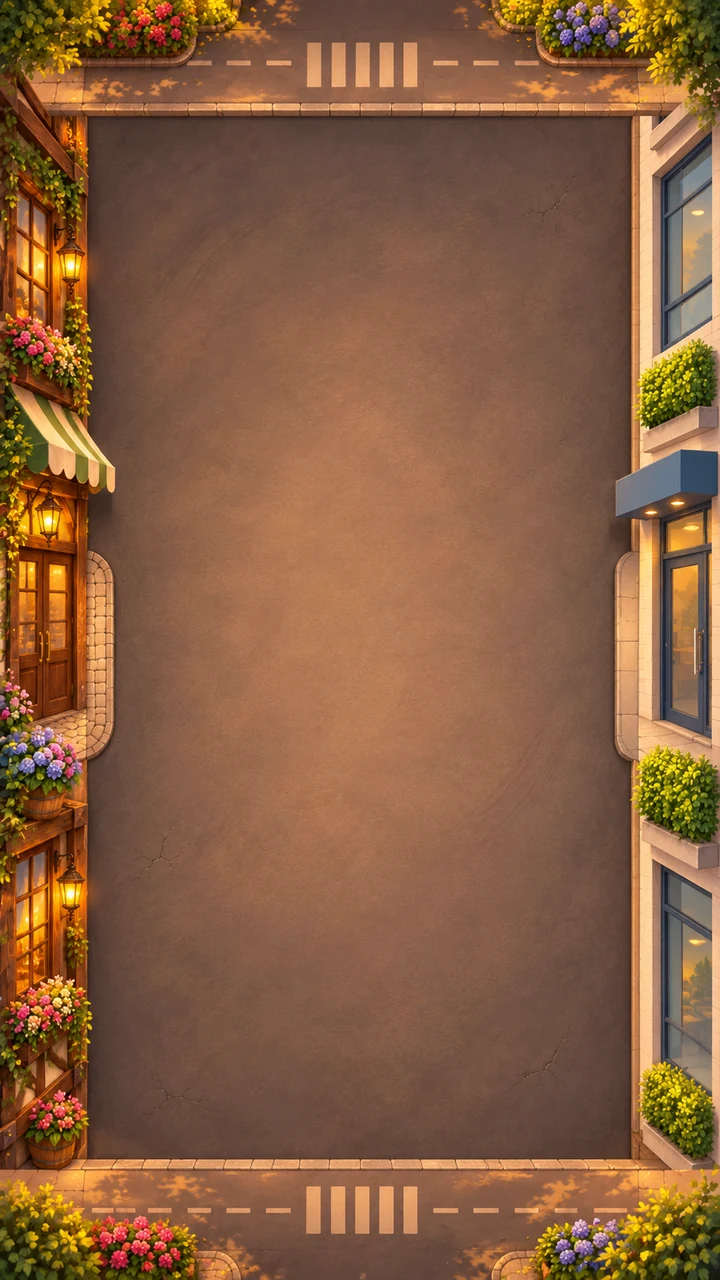
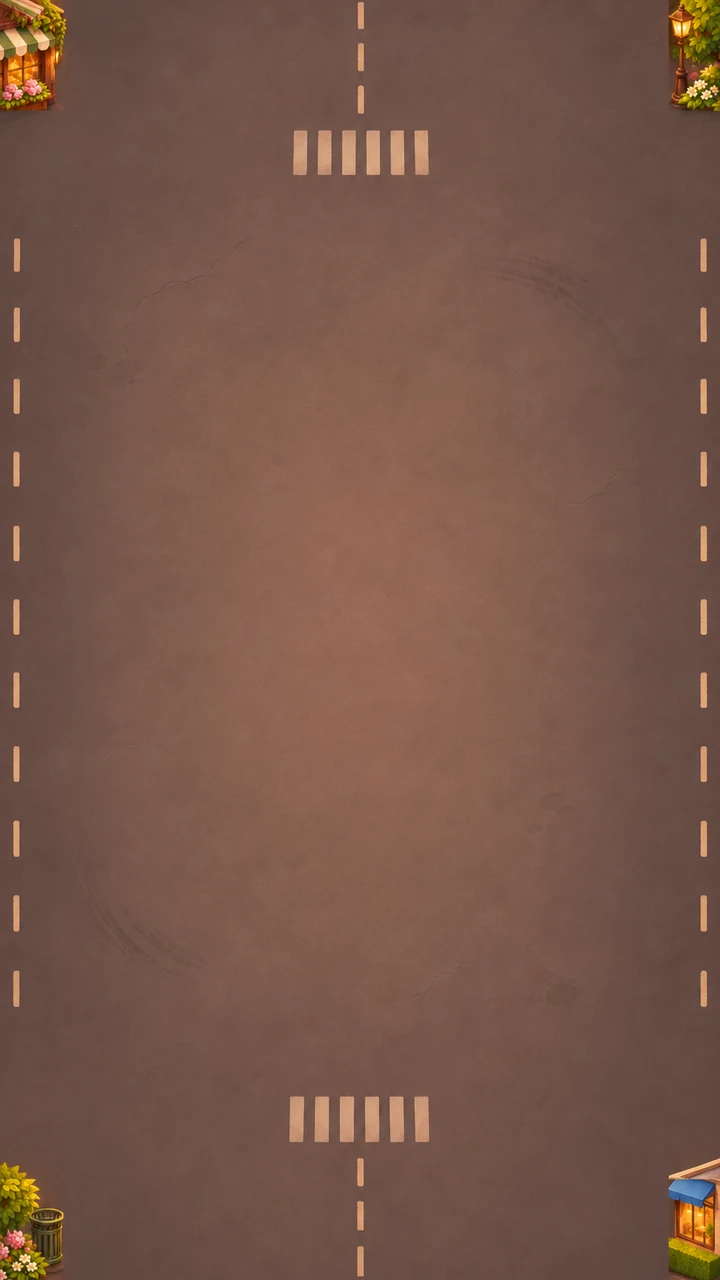
Car Park: open street on all four sides, so no car drives into a building
Found on a real phone: the first backdrop had a building down each side, so a
sideways car drove into the cafe or the neighbour's wall. New backdrop
(car-park-backdrop-v2) has a street on every side and the cafe and the neighbour
only as small corner pieces. The lot is now 86 % of the stage width, the lot box
and its clip are gone, and vehicles drive off the stage edge they face. Also: a
puff behind a departing car, the tow-truck picture on the Tow button, the angry
neighbour face on the third honk, and e2e P12 (a departure stays on its row or
column). tools/e2e/harness.mjs OUT path fixed (no more stray Knife%20Craft folder).
Docs: HANDOFF and the Codex prompts (batch A2).

diff --git a/src/components/kc/inventory/CarParkGame.tsx b/src/components/kc/inventory/CarParkGame.tsx
@@ -119,7 +119,7 @@ export function CarParkGame({
   const [leaving, setLeaving] = useState<CarParkVehicle[]>([]);
   const [honkId, setHonkId] = useState<string | null>(null);
   const stage = useRef<HTMLElement | null>(null);
-  /** The size of one square cell, in pixels: the biggest the lot can be inside the stage (78 % of its width, the rest is the two buildings). */
+  /** The size of one square cell, fitted into 86 % of the stage width to match the open-road play area. */
   const [cell, setCell] = useState(0);
   const idleTimer = useRef<number | null>(null);
   const sentResult = useRef(false);
@@ -135,7 +135,7 @@ export function CarParkGame({
     const el = stage.current;
     if (!el) return;
     const measure = () => {
-      const w = el.clientWidth * 0.78;
+      const w = el.clientWidth * 0.86;
       const h = el.clientHeight;
       setCell(Math.max(0, Math.floor(Math.min(w / initial.cols, h / initial.rows))));
     };
@@ -258,10 +258,12 @@ export function CarParkGame({
         </button>
       </header>
 
-      <div className="relative z-10 mx-auto mt-2 flex w-[78%] items-center justify-between rounded-2xl border border-[#e4c683] bg-[#fff5df]/95 px-2 py-1 shadow-lg">
+      <div className="relative z-10 mx-auto mt-2 flex w-[86%] items-center justify-between rounded-2xl border border-[#e4c683] bg-[#fff5df]/95 px-2 py-1 shadow-lg">
         <div className="flex items-center gap-2">
           <img
-            src={art(`neighbour-${honks === 0 ? "happy" : honks === 1 ? "worried" : "annoyed"}`)}
+            src={art(
+              `neighbour-${honks === 0 ? "happy" : honks === 1 ? "worried" : honks >= CAR_PARK_STRIKES ? "angry" : "annoyed"}`,
+            )}
             alt="Neighbour"
             className="h-10 w-10 rounded-full"
           />
@@ -277,12 +279,12 @@ export function CarParkGame({
 
       <section
         ref={stage}
-        className="relative z-10 min-h-0 flex-1"
+        className="relative z-10 min-h-0 flex-1 overflow-hidden"
         aria-label="Shared car park puzzle"
       >
         {cell > 0 ? (
           <div
-            className="absolute left-1/2 top-1/2 -translate-x-1/2 -translate-y-1/2 overflow-hidden rounded-lg border-2 border-[#d7b674]/80 bg-[#5d554a]/55 shadow-[0_12px_35px_rgba(0,0,0,.45)]"
+            className="absolute left-1/2 top-1/2 -translate-x-1/2 -translate-y-1/2"
             style={{ width: cell * lot.cols, height: cell * lot.rows }}
           >
             {lot.vehicles.map((v) => {
@@ -318,6 +320,9 @@ export function CarParkGame({
             {leaving.map((v) => (
               <div
                 key={`leaving-${v.id}`}
+                data-testid="carpark-departing"
+                data-axis={v.axis}
+                data-direction={v.dir}
                 aria-hidden="true"
                 className="pointer-events-none absolute z-0"
                 style={{
@@ -329,6 +334,29 @@ export function CarParkGame({
                 }}
               >
                 <Oriented v={v} cell={cell} />
+                <img
+                  src={art("puff")}
+                  alt=""
+                  draggable={false}
+                  className="pointer-events-none absolute"
+                  style={{
+                    left:
+                      v.axis === "h"
+                        ? v.dir > 0
+                          ? -cell * 0.3
+                          : v.length * cell - cell * 0.7
+                        : cell / 2 - cell * 0.35,
+                    top:
+                      v.axis === "v"
+                        ? v.dir > 0
+                          ? -cell * 0.3
+                          : v.length * cell - cell * 0.7
+                        : cell / 2 - cell * 0.35,
+                    width: cell * 0.7,
+                    height: cell * 0.7,
+                    animation: "carparkPuff .38s ease-out forwards",
+                  }}
+                />
               </div>
             ))}
             {hintId && phase === "playing" ? (
@@ -345,6 +373,7 @@ export function CarParkGame({
       <footer className="relative z-10 mx-3 mb-[max(12px,env(safe-area-inset-bottom))] rounded-2xl border border-[#dfbe7e] bg-[#fff2d7]/95 p-2 shadow-xl">
         <div className="flex items-center justify-between gap-2">
           <button
+            data-testid="carpark-tow"
             onClick={async () => {
               touchActivity();
               if (canTow) {
@@ -365,14 +394,16 @@ export function CarParkGame({
             }
             className={`min-h-12 rounded-xl border px-3 py-2 text-xs font-black shadow ${towMode ? "border-red-700 bg-red-700 text-white" : "border-[#b67d3c] bg-[#f4d49a]"}`}
           >
-            🚚{" "}
-            {towMode
-              ? "Choose a vehicle"
-              : canTow
-                ? `${freeTowUsed ? "Bonus tow" : "Tow"} · costs 1★`
-                : towAdAvailable && carParkTowAdAvailable(save)
-                  ? "Watch for extra tow"
-                  : "Tow used today"}
+            <span className="flex items-center gap-1.5">
+              <img src={art("tow-truck")} alt="" className="h-8 w-4 object-contain" />
+              {towMode
+                ? "Choose a vehicle"
+                : canTow
+                  ? `${freeTowUsed ? "Bonus tow" : "Tow"} · costs 1★`
+                  : towAdAvailable && carParkTowAdAvailable(save)
+                    ? "Watch for extra tow"
+                    : "Tow used today"}
+            </span>
           </button>
           <span className="rounded-xl border border-[#c49a61]/50 px-3 py-2 text-xs font-bold">
             {honks === 0 ? "✨ Clean run" : `${honks}/3 honks`}

diff --git a/src/styles.css b/src/styles.css
@@ -1613,6 +1613,17 @@ html.kc-reduced-motion .kc-clean-sheen {
   }
 }
 
+@keyframes carparkPuff {
+  0% {
+    opacity: 0.8;
+    transform: scale(0.45);
+  }
+  100% {
+    opacity: 0;
+    transform: scale(1.25);
+  }
+}
+
 @keyframes carparkBump {
   0%,
   100% {

diff --git a/scripts/make-car-park-assets.py b/scripts/make-car-park-assets.py
@@ -18,7 +18,8 @@ ROOT = Path(__file__).resolve().parent.parent
 SOURCE = ROOT / "Car Park Assets"
 OUTPUT = ROOT / "public" / "business" / "carpark"
 
-BACKDROP = "car-park-backdrop"
+BACKDROP_SOURCE = "car-park-backdrop-v2"
+BACKDROP_OUTPUT = "car-park-backdrop"
 VEHICLES: dict[str, tuple[int, int]] = {
     **{f"car-{color}": (160, 320) for color in ("red", "blue", "yellow", "green", "orange", "purple", "white", "grey")},
     **{f"van-{color}": (160, 480) for color in ("red", "blue", "yellow", "green", "orange", "purple", "white", "grey")},
@@ -84,9 +85,9 @@ def main() -> int:
     OUTPUT.mkdir(parents=True, exist_ok=True)
     built = 0
 
-    backdrop_path = SOURCE / f"{BACKDROP}.png"
+    backdrop_path = SOURCE / f"{BACKDROP_SOURCE}.png"
     backdrop = Image.open(backdrop_path).convert("RGB").resize(BACKDROP_SIZE, Image.Resampling.LANCZOS)
-    save_webp(backdrop, OUTPUT / f"{BACKDROP}.webp", BACKDROP_MAX_BYTES)
+    save_webp(backdrop, OUTPUT / f"{BACKDROP_OUTPUT}.webp", BACKDROP_MAX_BYTES)
     built += 1
 
     for name, size in VEHICLES.items():

diff --git a/docs/HANDOFF.md b/docs/HANDOFF.md
@@ -1,8 +1,8 @@
 # KnifeCraft — Handoff (Playgama edition)
 
-## Car Park, the seventh mini-game and the last step before START (developer 2026-11-15, UNCOMMITTED)
+## Car Park, the seventh mini-game and the last step before START (developer 2026-11-15; committed d87232d, backdrop fix UNCOMMITTED)
 
-- **What it is:** guests' cars and the neighbour's share one lot between our restaurant (left edge of the picture) and the neighbour's building (right edge). Tap a vehicle and it drives out along its arrow if nothing is in its way; a blocked one HONKS and costs a patience heart. Three hearts, three strikes: the third honk is "the neighbour called a tow truck", and "Try again" is the SAME lot, one tap. Stars: 0 honks 3, 1 honk 2, 2 honks 1; a **Tow** (one free vehicle removed, even a blocked one) costs a star; one more tow can be had once a business day with a rewarded ad (`car_park_tow`, never needed, no money so no ledger entry). The hint after 4 s idle glows a vehicle that can leave. Pause has Resume / Restart this lot / Leave.
+- **What it is:** guests' cars and the neighbour's share one lot with an open street on ALL FOUR sides (the first backdrop had a building down each side and a sideways car drove into the wall, found on a real phone 2026-11-15; the new `car-park-backdrop-v2.png` has our cafe and the neighbour's building only as small corner pieces, the lot is 86 % of the stage width and vehicles drive off the stage edge they face). Tap a vehicle and it drives out along its arrow if nothing is in its way; a blocked one HONKS and costs a patience heart. Three hearts, three strikes: the third honk is "the neighbour called a tow truck", and "Try again" is the SAME lot, one tap. Stars: 0 honks 3, 1 honk 2, 2 honks 1; a **Tow** (one free vehicle removed, even a blocked one) costs a star; one more tow can be had once a business day with a rewarded ad (`car_park_tow`, never needed, no money so no ledger entry). The hint after 4 s idle glows a vehicle that can leave. Pause has Resume / Restart this lot / Leave.
 - **Where:** the LAST step of the opening routine (`FlowStepId` "carpark", step 6, "Clear the car park"), once a business day, from **Level 15** (after every other mini-game has been met). The Prep Cook clears it with no stars only from Level 30 (`canPrepCookClearCarPark`); the "skip this step" ad works as for the others. Rewards: Hype by the usual star table and Paige's praise (`PraiseGame` "car-park"); no money, no stock, no ledger entry.
 - **Rules (pure, `game/business/carPark.ts`):** `generateLot(level, seed)` drops vehicles in one at a time and keeps each only if the lot can still be emptied (the "blocked by" graph stays acyclic: solvable BY CONSTRUCTION), then flips driving directions to the tier's difficulty (few vehicles free at the start, a long chain) while it stays solvable; same level and seed is the same lot. `CAR_PARK_TIERS` (Level 15 / 22 / 32 / 45 / 65: 5x5 to 6x9 cells, 5 to 18 vehicles, cars of 2 cells, vans 3, buses 4). `lotFor(save, level)` seeds from level, business day and rounds played. State `business.carPark` `{ rounds, stars, best, perfect, streak, howto, doneDay, towAdDay }` (optional, no migration).
 - **Screen:** `components/kc/inventory/CarParkGame.tsx`. The lot is a grid of SQUARE cells sized from the stage (78 % of its width is the lot, the rest the two buildings), vehicles are drawn once pointing up and turned by CSS, a vehicle that leaves drives off the lot (`carparkDrive`), a blocked one shakes and shows the honk burst. Test hook: `?carPark=<level>` (as the other mini-games). 320 x 568: a 6-column vehicle is 41 px wide (50 px at 390), a little under the usual 48 px; if a real phone says it is too small the late lots can shrink the side buildings.

diff --git a/docs/planning/CAR-PARK-CODEX-PROMPTS-2026-11-15.md b/docs/planning/CAR-PARK-CODEX-PROMPTS-2026-11-15.md
@@ -48,6 +48,34 @@ LAYOUT (percentages of the width; the picture will be cropped to these exact pro
 Overall mood: inviting, a little humorous, the two buildings clearly different neighbours sharing one car park.
 ```
 
+## BATCH A2: the new backdrop, roads all round (developer 2026-11-15, REPLACES batch A)
+
+**Why:** in play (real phone) a sideways car drove into the cafe or the neighbour's wall, because batch A has a building down each side and a road only at the top and bottom. Every
+edge a car can leave by must be open road. The restaurant and the neighbour stay in the picture only as small CORNER pieces that no car ever drives toward.
+
+```
+Make ONE portrait image of an empty car park seen from straight above (a bird's-eye, orthographic overhead view, like a game board), saved as car-park-backdrop-v2.png, 1080 x 1920 px,
+NOT transparent (a full opaque scene). Warm golden-hour evening light, the same painted look as the attached restaurant map and as the first backdrop.
+
+THE ONE RULE: a car must be able to drive straight off ANY of the four edges of the car park, so ALL FOUR SIDES of the asphalt are OPEN ROAD. No building, wall, fence, hedge, tree
+or kerb blocks the middle of any side.
+
+LAYOUT (percentages of the picture; keep each zone inside its band):
+- THE CAR PARK FLOOR: a big rectangle from 7 % to 93 % of the width and 9 % to 91 % of the height: dark warm-grey asphalt, soft painterly texture, fine cracks, a few oil stains,
+  faint tyre marks, lighter in the centre so coloured vehicles stand out, a little darker at the edges. NO painted parking lines, NO bays, NO arrows, NO cars, NO people, NO text.
+- ALL FOUR SIDES are a STREET running past the car park, continuing off the picture: a low, dropped kerb (flat, no wall) between the asphalt and the street, then a road with a
+  faint dashed centre line. The side streets are the LEFT 7 % and the RIGHT 7 % of the width; the TOP 9 % and BOTTOM 9 % of the height are the top and bottom streets, with a zebra
+  crossing near the middle of each. The four streets join at the corners.
+- ONLY THE FOUR CORNERS may hold scenery, and each piece stays inside its corner square (no more than 22 % of the width and 12 % of the height, tucked against the corner, never
+  in the middle of a side): TOP-LEFT a slice of OUR CAFE (dark timber frame, scalloped cream-and-green awning, glowing lantern, window boxes of flowers, a cobbled corner) seen from
+  above; BOTTOM-RIGHT a slice of the NEIGHBOUR'S building (pale brick and glass, a blue canopy, neat green hedges, a bench, a street lamp), cooler colours than the cafe; TOP-RIGHT
+  and BOTTOM-LEFT: flower beds, a couple of small trees and bushes, a lamp post, a bin. Nothing else.
+Overall mood: inviting, a little humorous, a car park with a street on every side.
+```
+
+After it arrives: I put it at `Car Park Assets/car-park-backdrop-v2.png`, build it into `public/business/carpark/car-park-backdrop.webp` (crop 720 x 1280), widen the lot in
+`CarParkGame.tsx` from 78 % to about 86 % of the stage width, let a car drive off the edge it faces, and re-run `tools/e2e/carpark.mjs` (with a new check: no car crosses a corner piece).
+
 ## BATCH B: cars (8 files, 1024 x 2048, transparent)
 
 ```
